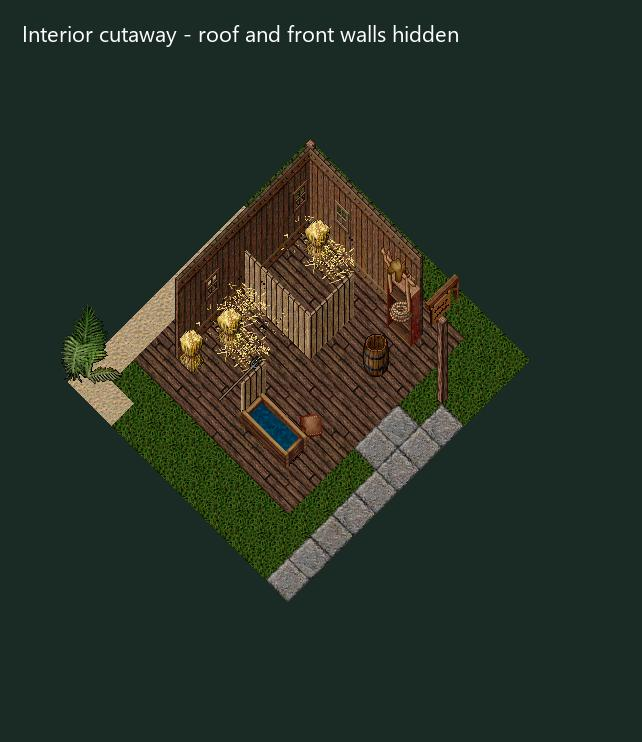
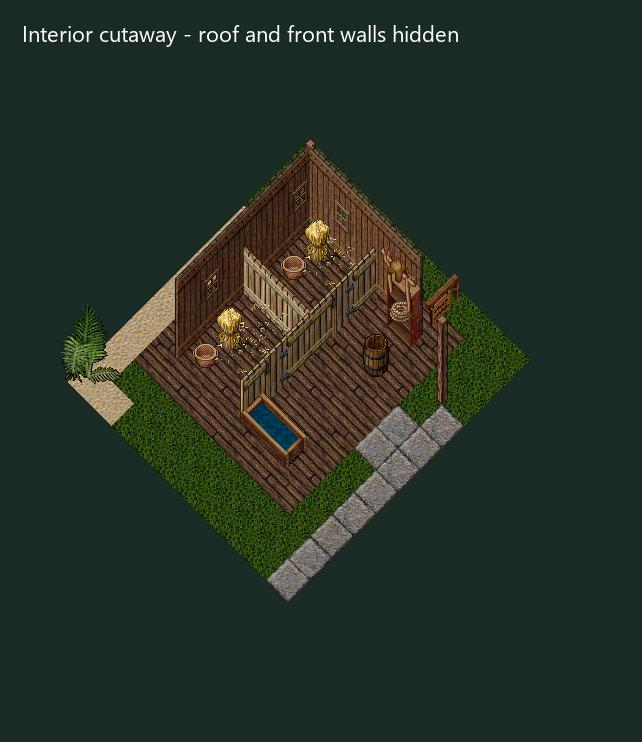
Complete stable pens with native gates and matching rails

Changed region(s): [[0.2804, 0.31, 0.5919, 0.558], [0.4673, 0.558, 0.4984, 0.5889]]

diff --git a/tools/plan-corsair-stable.py b/tools/plan-corsair-stable.py
@@ -30,15 +30,23 @@ for x in range(39,46):
     for y in (91,98):
         for z in range(20,20+rise,3): add('gable infill',0x18,x,y,z)
 
-# Low partitions keep both stalls visible. Each has its own clear opening.
-for x in (39,40,41): add('stall divider',0x3B4,x,94)
-for y in (93,94,97): add('stall front rail',0x3B5,41,y)
+# Complete matching rails enclose each stall. Real native LightWoodGate doors
+# replace the former gaps. The preview shows them closed to make the two pens
+# legible; the world installer must instantiate doors, not immovable statics.
+for x in (39,40): add('stall divider',0x836,x,94)
+add('stall divider corner',0x835,41,94)
+for y in (92,95,97): add('stall front rail',0x837,41,y)
+for number,y in ((1,93),(2,96)):
+    add(f'stall {number} gate',0x843,41,y)
+    tiles[-1].update(type='LightWoodGate',facing='NorthCCW',open=False)
 for y in (92,95,96):
-    for x in (39,40): add('stall bedding',0xF34+(x+y)%2,x,y)
+    add('light straw bedding',0xF35,40,y)
 # Feed stays in each back corner, away from the openings and working aisle.
-for y in (92,96): add('fresh hay',0x100C,39,y)
+for y in (92,96):
+    add('fresh hay',0x100C,39,y)
+    add('feed basket',0x9AC,39,y+1)
+# Supplies are grouped at the head of the aisle, leaving the length clear.
 add('feed barrel',0xE77,43,93)
-add('feed sack',0x1039,43,96)
 add('tack shelf',0xA9D,43,92)
 add('tack saddle',0xF37,43,92,12)
 add('tack rope',0x14F8,43,92,6)
@@ -46,8 +54,6 @@ add('tack rope',0x14F8,43,92,6)
 # working addon rather than two decorative statics.
 add('water trough west',0xB43,42,97)
 add('water trough east',0xB44,43,97)
-add('bedding reserve',0x100D,39,97)
-add('mucking fork',0xE87,40,97)
 
 # A proper supported sign sits beside, not in, the two-tile entrance.
 add('stable signpost',0x9,45,92)
